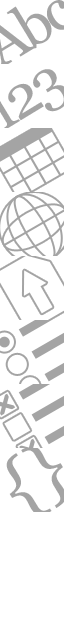
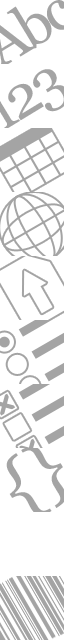
frontend/feature: grouping v1, barcode type support, formid autogen tweaks

Changed region(s): [[0.0, 0.875, 1.0, 1.0]]

diff --git a/public/javascripts/data.js b/public/javascripts/data.js
@@ -87,7 +87,7 @@ var dataNS = odkmaker.namespace.load('odkmaker.data');
     odkmaker.data.load = function(formObj)
     {
         $('h1').text(formObj.title);
-        $('.workspace').empty(); //TODO
+        $('.workspace').empty();
         loadRecurse($('.workspace'), formObj.controls);
         $('.workspace .control:first').trigger('odkControl-select');
     };
@@ -99,6 +99,7 @@ var dataNS = odkmaker.namespace.load('odkmaker.data');
         inputDate: 'input',
         inputLocation: 'input',
         inputMedia: 'upload',
+        inputBarcode: 'input',
         inputSelectOne: 'select1',
         inputSelectMany: 'select'
     };
@@ -125,6 +126,7 @@ var dataNS = odkmaker.namespace.load('odkmaker.data');
         {
             var instanceTag = {
                 name: control.name,
+                attrs: {},
                 children: []
             };
             instance.children.push(instanceTag);
@@ -143,6 +145,20 @@ var dataNS = odkmaker.namespace.load('odkmaker.data');
                     }
                 });
                 addTranslation(control.label, xpath + control.name + ':label', translations);
+            }
+
+            if (control.loop === true)
+            {
+                instanceTag.attrs['jr:template'] = '';
+                var loopBodyTag = {
+                    name: 'repeat',
+                    attrs: {
+                        nodeset: xpath + control.name,
+                    },
+                    children: []
+                };
+                bodyTag.children.push(loopBodyTag);
+                bodyTag = loopBodyTag;
             }
 
             _.each(control.children, function(child)
@@ -200,6 +216,8 @@ var dataNS = odkmaker.namespace.load('odkmaker.data');
             binding.attrs.type = 'geopoint';
         else if (control.type == 'inputMedia')
             binding.attrs.type = 'binary';
+        else if (control.type == 'inputBarcode')
+            binding.attrs.type = 'barcode';
 
         // deal with properties:
 
@@ -316,7 +334,7 @@ var dataNS = odkmaker.namespace.load('odkmaker.data');
                 'xmlns:ev': 'http://www.w3.org/2001/xml-events',
                 'xmlns:xsd': 'http://www.w3.org/2001/XMLSchema',
                 'xmlns:jr': 'http://openrosa.org/javarosa',
-                'id': 'build_' + (dataNS.currentForm ? dataNS.currentForm.id : 'temp') +
+                'id': 'build_' + $.sanitizeString($('.header h1').text()) +
                       '_' + Math.round((new Date()).getTime() / 1000)
             },
             children: [

diff --git a/public/javascripts/control.js b/public/javascripts/control.js
@@ -287,6 +287,7 @@
                         options: [ 'Image',
                                    'Audio',
                                    'Video' ] } },
+        inputBarcode: {},
         inputSelectOne: {
           options:    { name: 'Options',
                         type: 'optionsEditor',
@@ -315,11 +316,10 @@
                         required: true,
                         value: {},
                         summary: false },
-          loop:       { name: 'Loop',
-                        type: 'loopEditor',
-                        description: 'Loop options over this group.',
-                        value: false,
-                        summary: true } },
+          loop:       { name: 'Looped',
+                        type: 'bool',
+                        description: 'Whether or not to allow this group to loop.',
+                        value: false } },
         branch: {
           logic:      { name: 'Rules',
                         type: 'logicEditor',

diff --git a/public/javascripts/group.js b/public/javascripts/group.js
@@ -3,7 +3,10 @@
 /*
 repeats:
 •    loop X times
-•    jr:template="" means the repeat exists no matter what (so you're not prompted about it)
-•    jr:noAddRemove="true" (supposedly) means that it won't prompt whether users want more
-•    jr:count specifies either a specific number or an xpath to another field
+•    jr:template="" means the repeat exists no matter what (so you're not prompted about it) (instance) [always include]
+•    jr:noAddRemove="true()" (supposedly) means that it won't prompt whether users want more (control)
+•    jr:count specifies either a specific number or an xpath to another field (control)
 */
+
+
+// GROUPS don't necessarily have a instance.

diff --git a/public/javascripts/property-editor.js b/public/javascripts/property-editor.js
@@ -163,10 +163,6 @@
                 $optionsList.append(newOptionRow(property, newOption, $optionsList.children().length, $parent));
                 $parent.trigger('odkControl-propertiesUpdated');
             });
-        },
-        loopEditor: function(property, $editor, $parent) {
-            $editor.find('h4').text(property.name);
-            $editor.find('p').text(property.description);
         }
     };
 

diff --git a/public/stylesheets/styles.css b/public/stylesheets/styles.css
@@ -806,3 +806,5 @@ body > .control.last .controlFlowArrow,
 .inputMedia .typeIcon      { background-position: 0 -256px; }
 .inputSelectOne .typeIcon  { background-position: 0 -320px; }
 .inputSelectMany .typeIcon { background-position: 0 -384px; }
+.inputBarcode .typeIcon    { background-position: 0 -576px; }
+

diff --git a/public/javascripts/util.js b/public/javascripts/util.js
@@ -24,6 +24,11 @@
             return str;
     };
 
+    $.sanitizeString = function(str)
+    {
+        return str.replace(/([^a-z0-9]+)/ig, '-');
+    };
+
     $.live = function(selector, type, callback)
     {
         var obj = $([]);
